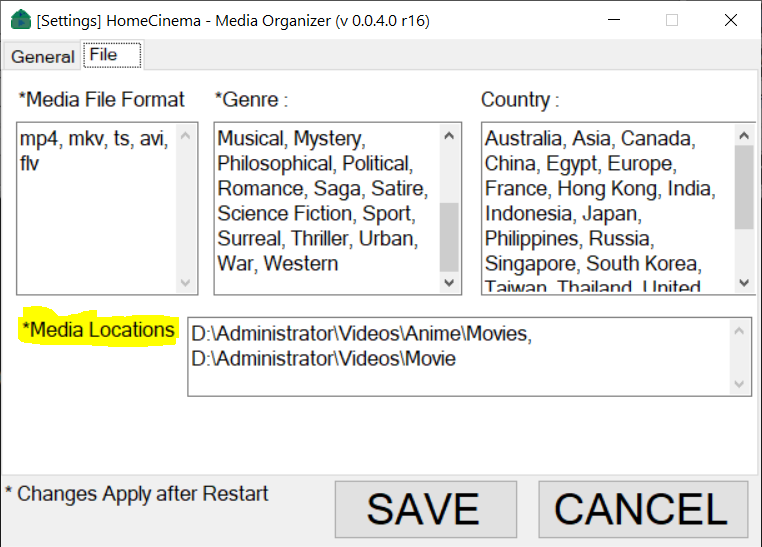
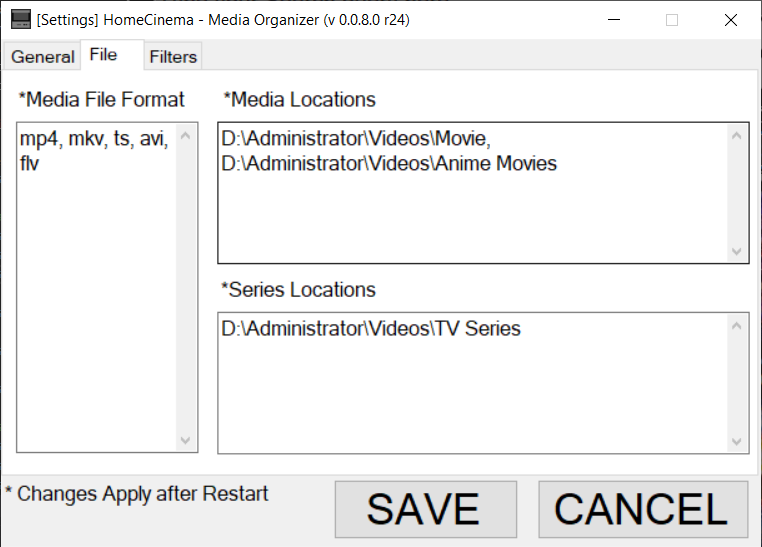
DOCS: Update to v0.0.8.0

diff --git a/README.md b/README.md
@@ -1,22 +1,22 @@
 # HomeCinema
 
-<img src="/data/screenshot_v0.0.7.0.png"></img>
+<img src="/data/screenshot_v0.0.8.0.png"></img>
 
-**version:**	0.0.7.0 <br>
-**build:**		23
+**version:**	0.0.8.0 <br>
+**build:**		24
 
 ## Downloads
 
-**Windows 64 bit [Compressed ZIP]**: [Click to Download latest version](https://github.com/JerloPH/HomeCinema/releases/download/v0.0.7.0/HomeCinema-Windows_v0.0.7.0.zip "Download, Extract and Open 'HomeCinema' Executable file") <br>
+**Windows 64 bit [Compressed ZIP]**: [Click to Download latest version](https://github.com/JerloPH/HomeCinema/releases/download/v0.0.8.0/HomeCinema-Windows_v0.0.8.0.zip "Download, Extract and Open 'HomeCinema' Executable file") <br>
 
 ### Download Counts
 
-**Current:** &nbsp; [![](https://img.shields.io/github/downloads/JerloPH/HomeCinema/v0.0.7.0/total.svg)]() <br>
-**Overall:** &nbsp;  [![](https://img.shields.io/github/downloads/JerloPH/HomeCinema/total.svg)]()
+**Current:** &nbsp; [![](https://img.shields.io/github/downloads/JerloPH/HomeCinema/v0.0.8.0/total.svg)]() <br>
+**Overall:** &nbsp; [![](https://img.shields.io/github/downloads/JerloPH/HomeCinema/total.svg)]()
 
 ## Requirements
 
-- 2GB or more RAM. <br>
+- 4GB or more RAM. <br>
 - Microsoft .NET Framework Runtime, version 4.6 or higher. [Download Link](https://dotnet.microsoft.com/download/dotnet-framework/net46) <br>
 
 ****
@@ -47,8 +47,14 @@ Ease the pain of browsing through many folders and finding out which movie is wh
 2. Go to **File** Tab.
 3. Under **Media Locations**, enter the full directory of folders *containing your media files*.
   - Note: Make sure each entry is seperated by a *comma* ( **,** ).
-  - Example: **D:\Movies,D:\Anime,D:\Shows**
+  - Example: **D:\Movies,D:\Anime Movies**
   - **IMPORTANT NOTE:** First-time loading of App takes a little bit long while to finish. Even more if you have a huge collection of media files.
+  - **NOTES for Adding TV Series :**
+    - The directory **must be** the top-level folder. You must have a directory structure like this:
+	  - **D:\TV Series**
+	  - **\Title of Series and Season**
+	  - **\Episode 1.mp4**
+    - With this structure, type **D:\TV Series** into the [**Series Locations**] Textbox.
   
 <img src="/data/guide_add_media_paths.png"></img>
 

diff --git a/VERSION_HISTORY.md b/VERSION_HISTORY.md
@@ -1,5 +1,23 @@
 # HomeCinema - Project History:
 
+## v0.0.8.0 ***build 24 - (22 September 2020 PHT)***
+### [Series] can now be Added!
+
+Build from latest commit: 2070c18
+
+**[Download link for Windows 64 bit](https://github.com/JerloPH/HomeCinema/releases/download/v0.0.8.0/HomeCinema-Windows_v0.0.8.0.zip "HomeCinema-Windows_v0.0.8.0.zip")**
+	
+**What's New?**
+- REV: Add your "**Series**" top-folder into the App!
+- REV: Removed **[Add Movie]** Button.
+- FT: Added [**Hide Animation**] checkbox, to filter out *Anime and Cartoons*.
+- FIX: Allow to add File names / folders with single quotations ( **'** ).
+- MINOR: Show Message when error occurs on Settings changes.
+- GUI: Fix multiple label and tooltips mistakes.
+- GUI: Changed the **[Loading]** Icon.
+- Code cleanup, and improvements.
+****
+
 ## v0.0.7.0 ***build 23 - (17 September 2020 PHT)***
 ### More Features and Fixes
 

diff --git a/README_TODO.md b/README_TODO.md
@@ -3,7 +3,7 @@
 ## Priority ListView
 
 - Scrape Anime info from Anilist/MyAnimeList
-- Add folders as series into the App.
+- Add folders as series into the App. *Done*.
 
 ## Features:
 - General
